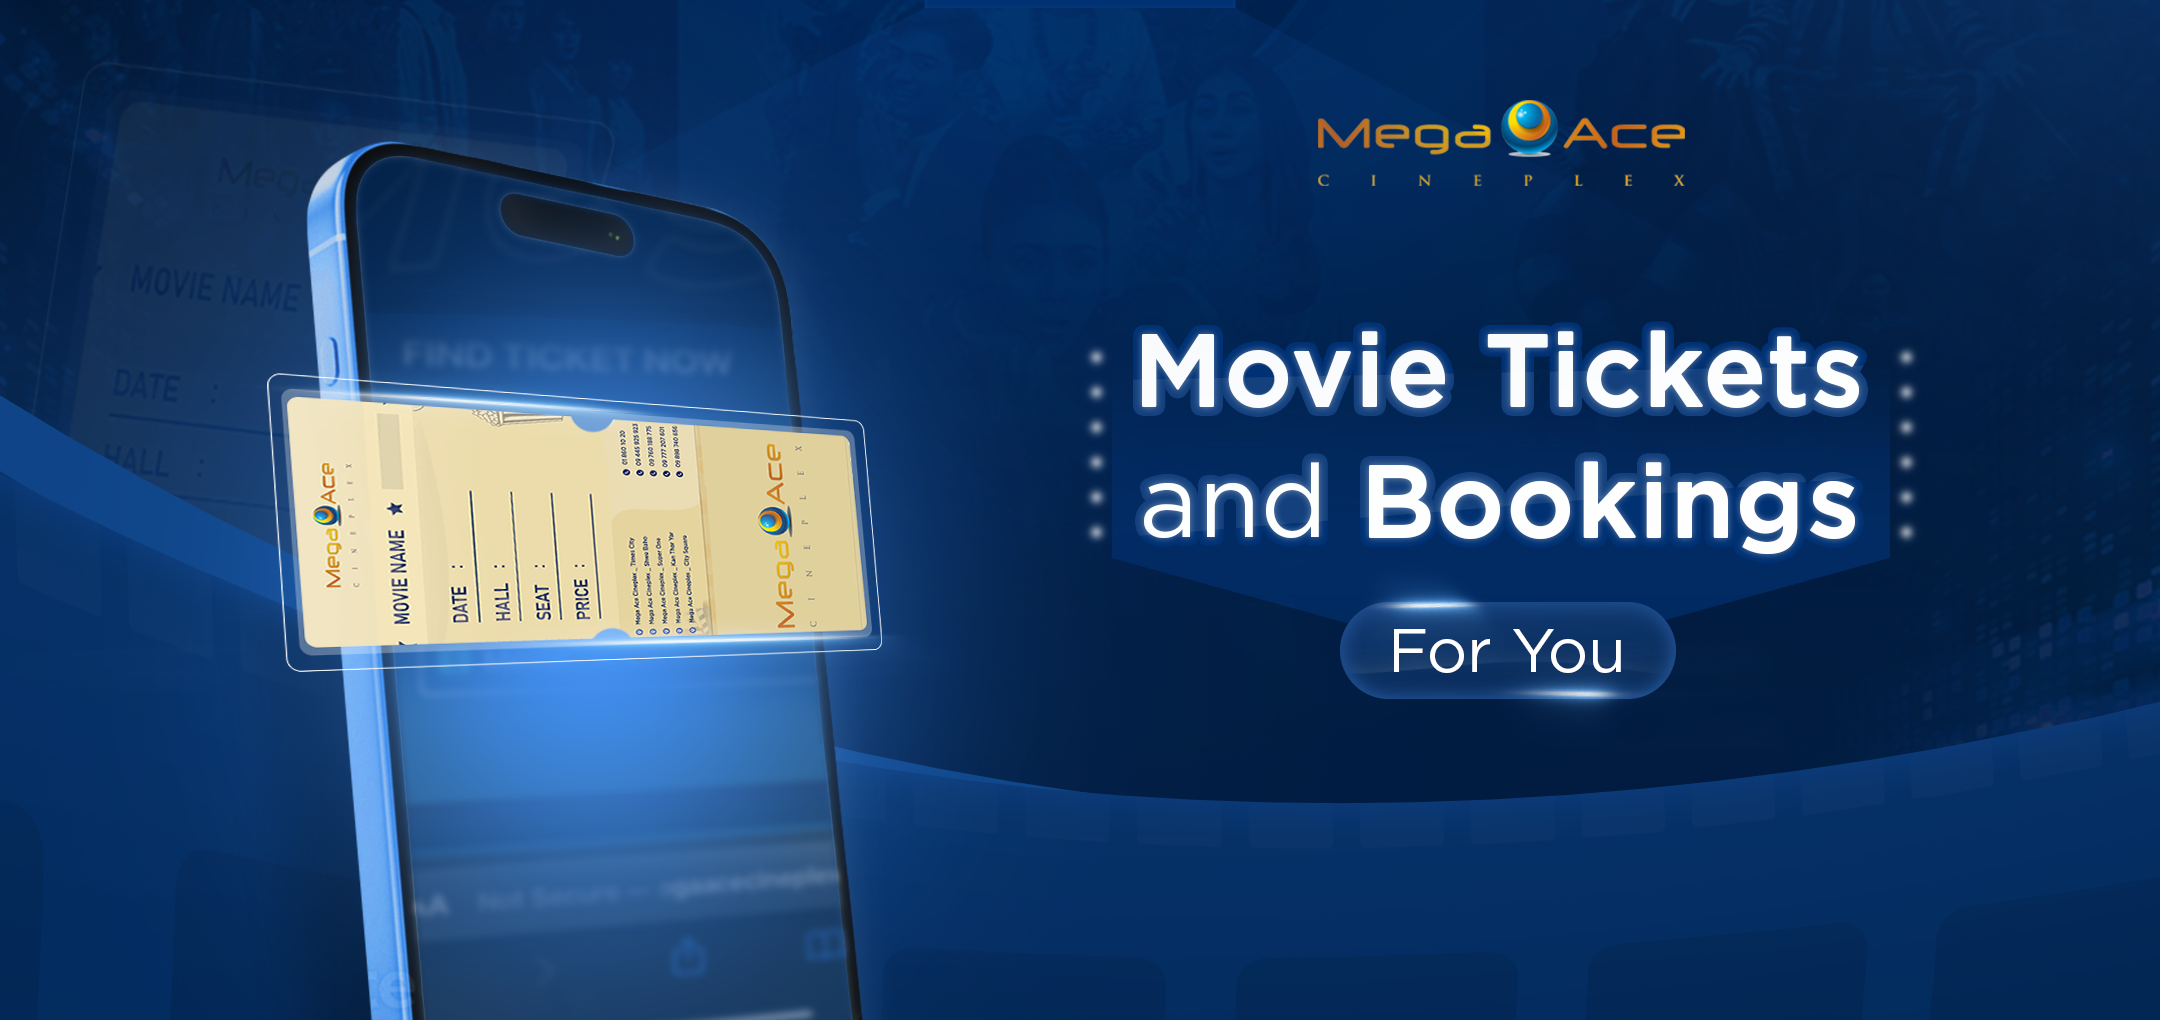
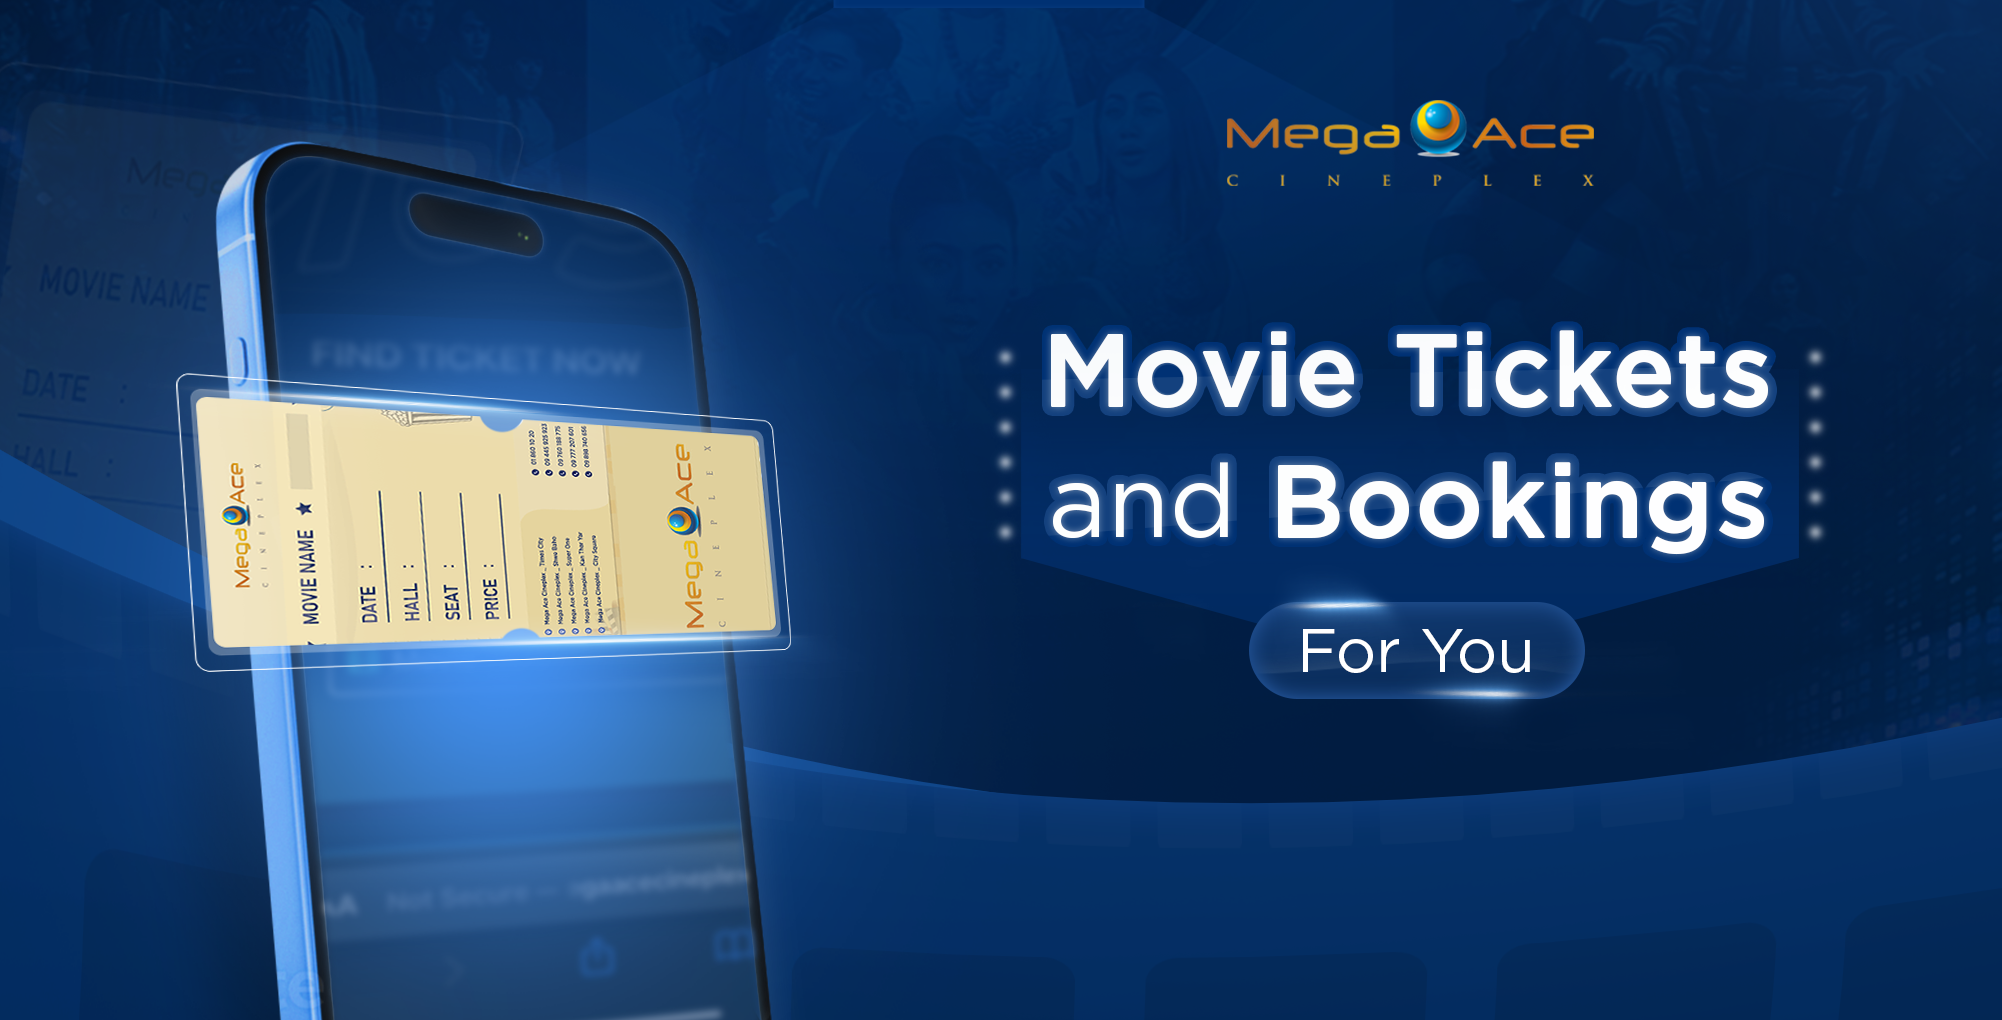
new commit

diff --git a/script.js b/script.js
@@ -504,26 +504,31 @@ var swiper = new Swiper(".mySwiper6", {
 
 
 // ..................................................... showtime select date start ....................................
-document.addEventListener('DOMContentLoaded',function(){
+document.addEventListener('DOMContentLoaded', function() {
   const selectDates = document.querySelectorAll('.js-select-date');
   const firstDateButton = document.getElementById('first-date-button');
-
-  if (firstDateButton) {
-    firstDateButton.classList.add('js-select-active');
+  
+  const storedDate = localStorage.getItem('activeDate');
+  
+  if (storedDate) {
+      selectDates.forEach(function(selectDate) {
+          if (selectDate.textContent.trim() === storedDate.trim()) {
+              selectDate.classList.add('js-select-active');
+          }
+      });
+  } else if (firstDateButton) {
+      firstDateButton.classList.add('js-select-active');
+      localStorage.setItem('activeDate', firstDateButton.textContent.trim());
   }
 
-  selectDates.forEach(function(selectDate){
-    selectDate.addEventListener('click',function(){
-      if(selectDate.classList.contains('js-select-active')){
-        selectDate.classList.remove('js-select-active');
-      }
-      else{
-        selectDates.forEach(function(date){
-          date.classList.remove('js-select-active');
-        });
-      }
-      selectDate.classList.add('js-select-active');
-    });
+  selectDates.forEach(function(selectDate) {
+      selectDate.addEventListener('click', function() {
+          selectDates.forEach(function(date) {
+              date.classList.remove('js-select-active');
+          });
+          selectDate.classList.add('js-select-active');
+          localStorage.setItem('activeDate', selectDate.textContent.trim());
+      });
   });
 });
 // ..................................................... showtime select date end .................................... 

diff --git a/index.html b/index.html
@@ -87,7 +87,7 @@
             <div id="carouselExampleInterval" class="carousel slide" data-bs-ride="carousel">
                 <div class="carousel-inner">
                     <div class="carousel-item active" data-bs-interval="3000">
-                        <img src="image/pexels-photo-7991486.jpg" class="d-block w-100" alt="...">
+                        <img src="image/photo_2024-10-25_13-03-32.jpg" class="d-block w-100" alt="...">
                         <span></span>
                         <div class="carousel-caption" id="home-poster-content">
                              <!-- <h1>TICKETS BOOKING FOR <span>MOVIE</span></h1> -->

diff --git a/book-ticket.html b/book-ticket.html
@@ -147,10 +147,8 @@
                 </div>
                 <ul class="row mt-2 mx-auto">
                     <li class="col-lg-3 col-md-4 col-sm-6">
-                        <button id="first-date-button" class="js-select-date js-select-active">
-                            <span>Wed</span>
-                            <span>12</span>
-                            <span>June</span>
+                        <button id="first-date-button" class="js-select-date">
+                            <span>All</span>
                         </button>
                     </li>
                     <li class="col-lg-3 col-md-4 col-sm-6">

diff --git a/style.css b/style.css
@@ -567,7 +567,7 @@ body{
         display: block;
         margin: auto;
         width: 130px;
-        height: 180px;
+        height: 200px;
         object-fit: cover;
     }
     #span-block > span{
